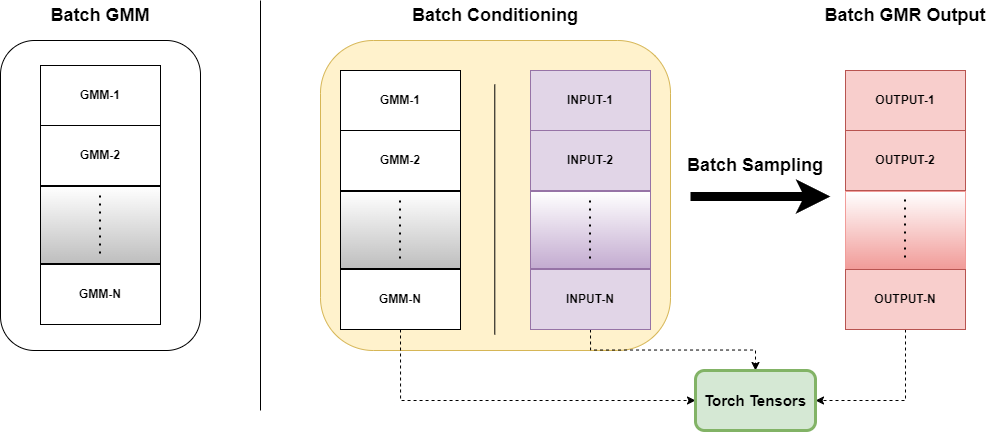
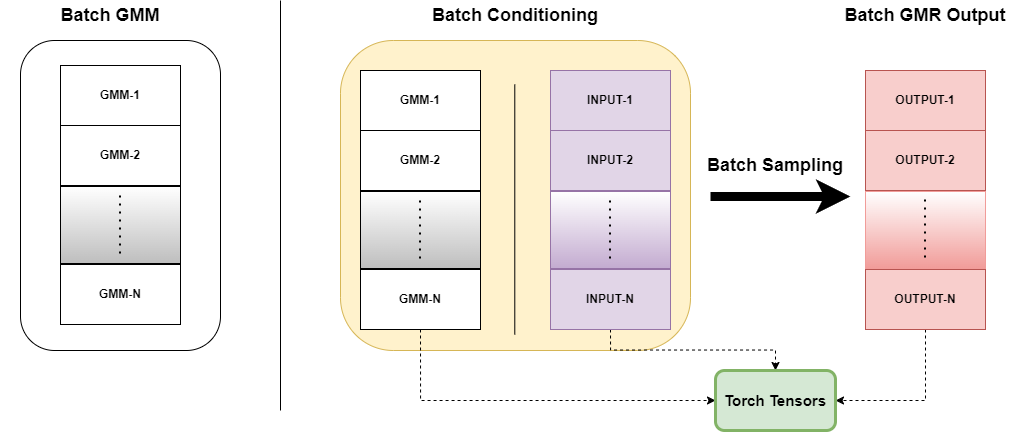
updated readme

diff --git a/run.py b/run.py
@@ -24,26 +24,17 @@ def main():
     # Use batch-gmr for parallel GMR
     from batch_gmr import BatchGMM
 
-    gmm_list = [gmm1, gmm2, gmm3, gmm4] * 10000
+    gmm_list = [gmm1, gmm2, gmm3, gmm4] * 5000
 
     # With CUDA
-    device = "cuda:0"
+    device = "cpu"  # or "cuda:0"
     b_gmm = BatchGMM(gmm_list=gmm_list, device=device)
     b_x = np.random.randn(len(gmm_list), 2)
     start = time()
     b_cgmm = b_gmm.condition([0, 1], b_x)
     b_out = b_cgmm.one_sample_confidence_region(alpha=0.7)
     end = time()
-    print("Batch GMM time (with CUDA): ", end - start)
-
-    # With CPU
-    device = "cpu"
-    b_gmm = BatchGMM(gmm_list=gmm_list, device=device)
-    start = time()
-    b_cgmm = b_gmm.condition([0, 1], b_x)
-    b_out = b_cgmm.one_sample_confidence_region(alpha=0.7)
-    end = time()
-    print("Batch GMM time (with CPU): ", end - start)
+    print("Batch GMR time: ", round(end - start, 4))
 
     # Use GMR for sequential GMR
     start = time()
@@ -51,7 +42,7 @@ def main():
         gmr = gmm.condition([0, 1], b_x[idx])
         out = gmr.sample_confidence_region(n_samples=1, alpha=0.7)
     end = time()
-    print("Sequential GMM time: ", end - start)
+    print("Sequential GMR time: ", round(end - start, 4))
 
 
 if __name__ == "__main__":

diff --git a/README.rst b/README.rst
@@ -1,25 +1,27 @@
-***
 batch-gmr
-***
+=====
 
-Description
------------
-This repo contains a simple implementation of batch Gaussian Mixture Regression (GMR) with PyTorch. The implementation is entirely based on the Alexander Fabisch's `gmr` library, which is a Python library for Gaussian Mixture Regression (GMR) and Gaussian Mixture Models (GMM). The library is available [here](https://github.com/AlexanderFabisch/gmr/). I basically reimplemented each `gmr` function with PyTorch to support parallel computations.
+This repo contains a simple implementation of batch Gaussian Mixture Regression (GMR) in PyTorch. The implementation is entirely based on Alexander Fabisch's ``gmr`` library, a Python library for Gaussian Mixture Regression (GMR) and Gaussian Mixture Models (GMM). The library is available at https://github.com/AlexanderFabisch/gmr/. 
+
+I reimplemented every ``gmr`` function with PyTorch to support parallel computations.
+
 
 .. image:: media/batch-gmr.png
    :alt: batch-gmr
+   :width: 500px
    :align: center
 
-The main motivation behind this implementation is to enable parallel GMR for multiple GMMs. In a robotics research project, we basically had to rollout several hundereds of slightly different GMM based robot policies in parallel in simulation. The `gmr` library was not designed for such parallel GMR rollouts, and the sequential GMR and multi-threading alternatives were too slow for our needs. This implementation was a simple PyTorch-based solution to that problem.
+
+The main motivation behind this implementation is to enable parallel GMR for multiple GMMs. In a robotics research project, we basically had to rollout several hundreds of slightly different but largely similar GMM-based robot policies in parallel in an RL simulation environment. The ``gmr`` library was not designed for such parallel GMR rollouts, and the sequential GMR and multi-threading alternatives were too slow for our needs. This implementation was a simple PyTorch-based solution to that problem.
 
 
-_Note: I am fairly convinved this will not be useful to most people. But if you are in a similar situation as we once were, this might be useful for you._
+_Note: I am fairly convinced this program will not be useful to most people. But if you are in a similar situation as we once were, this might be useful for you._
 
 
 Installation
 ------------
 
-Install `batch-gmr` from source:
+Install ``batch-gmr`` from source:
 
 .. code-block:: bash
 
@@ -31,8 +33,8 @@ Install `batch-gmr` from source:
 
 Example
 -------
+See ``run.py`` for the same example below:
 
-Estimate multiple GMMs from multiple datasets, using `gmr`'s `GMM` class:
 .. code-block:: python
 
     import numpy as np
@@ -60,15 +62,15 @@ Estimate multiple GMMs from multiple datasets, using `gmr`'s `GMM` class:
     # Use batch-gmr for parallel GMR
     from batch_gmr import BatchGMM
 
-    gmm_list = [gmm1, gmm2, gmm3, gmm4] * 1000
-    device = "cuda:0"
+    gmm_list = [gmm1, gmm2, gmm3, gmm4] * 5000
+    device = "cpu" # or "cuda:0"
     b_gmm = BatchGMM(gmm_list=gmm_list, device=device)
     b_x = np.random.randn(len(gmm_list), 2)
     start = time()
     b_cgmm = b_gmm.condition([0, 1], b_x)
     b_out = b_cgmm.one_sample_confidence_region(alpha=0.7)
     end = time()
-    print("Batch GMM time: ", end - start)
+    print("Batch GMR time: ", round(end - start, 4))
 
     # Use GMR for sequential GMR
     start = time()
@@ -76,4 +78,10 @@ Estimate multiple GMMs from multiple datasets, using `gmr`'s `GMM` class:
         gmr = gmm.condition([0, 1], b_x[idx])
         out = gmr.sample_confidence_region(n_samples=1, alpha=0.7)
     end = time()
-    print("Sequential GMM time: ", end - start)
+    print("Sequential GMR time: ", round(end - start, 4))
+
+.. code-block:: bash
+
+    # Output
+    Batch GMR time:  0.9465
+    Sequential GMR time:  67.9371
